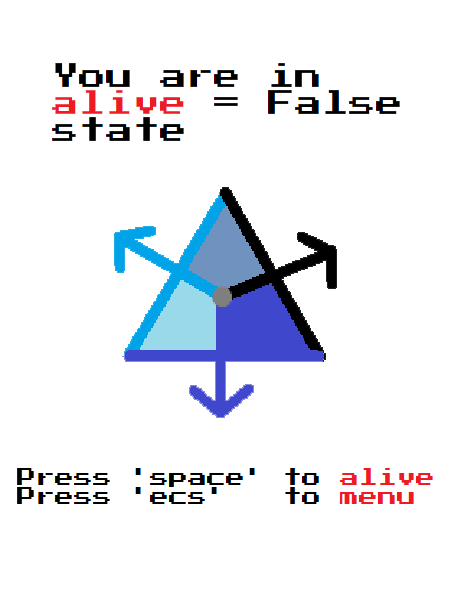
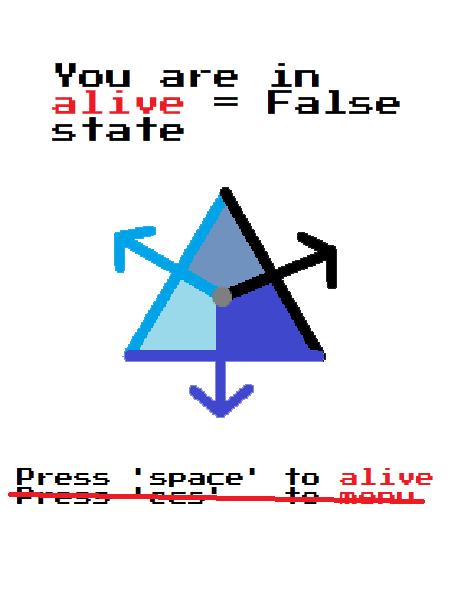
first playable(?) build

Changed region(s): [[0.0, 0.81, 0.9333, 0.84]]

diff --git a/meteor.py b/meteor.py
@@ -3,6 +3,43 @@ import random
 from sys import exit
 
 ###### functions and good stuffs ######
+def meteor1_movment(meteor_rect_list):
+    if meteor_rect_list:
+        for meteor_rect in meteor_rect_list:
+            meteor_rect.y += 2.3
+            screen.blit(meteor1,meteor_rect)
+        meteor_rect_list = [meteor for meteor in  meteor_rect_list if meteor.y < 700]
+        return meteor_rect_list
+    else:
+        return []
+
+def meteor2_movment(meteor_rect_list):
+    if meteor_rect_list:
+        for meteor_rect in meteor_rect_list:
+            meteor_rect.y += 4
+            screen.blit(meteor2,meteor_rect)
+        meteor_rect_list = [meteor for meteor in  meteor_rect_list if meteor.y < 700]
+        return meteor_rect_list
+    else:
+        return []
+
+def meteor3_movment(meteor_rect_list):
+    if meteor_rect_list:
+        for meteor_rect in meteor_rect_list:
+            meteor_rect.y += 4.777
+            screen.blit(meteor3,meteor_rect)
+        meteor_rect_list = [meteor for meteor in  meteor_rect_list if meteor.y < 700]
+        return meteor_rect_list
+    else:
+        return []
+
+def collision(player,meteor):
+    if meteor:
+        for meteor_rect in meteor:
+            if player.colliderect(meteor_rect):
+                return True
+    return False
+
 def mili2format(time): #00:00:000
     mili = time
     sec = mili // 1000
@@ -30,85 +67,94 @@ clock = pygame.time.Clock()
 gamefont = pygame.font.Font('asset/PressStart2P.ttf', 13)
 
 # initial state
-main_menu = True
 alive = False
 start_time = 0
 final_time = mili2format(0)
 
 # stuff to draw
-main_menu_surf = pygame.image.load('asset/main_menu.png').convert()
+gameover = pygame.image.load('asset/gameover.png').convert_alpha()
 ground_surface = pygame.image.load('asset/ground.png').convert() # 450*100
 sky_surface = pygame.image.load('asset/sky.png').convert() # 450*600 
 exo_surface = pygame.image.load('asset/fallen_sky.png').convert() # 450*125
-character = pygame.image.load('asset/character_hitbox.png').convert_alpha() # 65*100
-character_expired = pygame.image.load('asset/character_expired.png').convert_alpha()
-meteor = pygame.image.load('asset/meteor.png').convert()
-gameover = pygame.image.load('asset/gameover.png').convert_alpha()
 
-# rect(temporary dont know about sprite class yet)
-character_rect = character.get_rect(topleft = (200, 400))
-meteor_rect = meteor.get_rect(center = (400, 475))
+# event
+meteor_time_1 = pygame.USEREVENT + 1
+pygame.time.set_timer(meteor_time_1, random.randint(1500, 3000))
+meteor_time_2 = pygame.USEREVENT + 2
+pygame.time.set_timer(meteor_time_2, random.randint(450, 500))
+meteor_time_3 = pygame.USEREVENT + 3
+pygame.time.set_timer(meteor_time_3, random.randint(550, 700))
 
-# game state
-meteor_time = pygame.USEREVENT + 1
-pygame.time.set_timer(meteor_time, random.randint(900, 1100))
+# meteor
+meteor1 = pygame.image.load('asset/meteor_var_1.png').convert()
+meteor1_rect = meteor1.get_rect(center = (random.randint(-50, 550), -100))
+meteor1_rect_list = []
+meteor2 = pygame.image.load('asset/meteor_var_2.png').convert()
+meteor2_rect = meteor2.get_rect(center = (random.randint(-50, 550), -100))
+meteor2_rect_list = []
+meteor3 = pygame.image.load('asset/meteor_var_3.png').convert()
+meteor3_rect = meteor3.get_rect(center = (random.randint(-50, 550), -100))
+meteor3_rect_list = []
+
+# charecter
+character_surf = pygame.image.load('asset/character_1_hitbox.png').convert_alpha() # 65*100
+character_rect = character_surf.get_rect(topleft = (210, 400))
+
 
 while True:
+    ########## Event ##########
     key = pygame.key.get_pressed()
     for event in pygame.event.get():
         if event.type == pygame.QUIT:
             pygame.quit()
             exit()
-    
-    ########## Main Menu ##########
-    if main_menu == True:
-        screen.blit(main_menu_surf, (0,0))
-        if key[pygame.K_SPACE]:
-            main_menu = False
-            alive = True
-    ###############################
+        if event.type == meteor_time_1:
+            meteor1_rect_list.append(meteor1.get_rect(center = (random.randint(0, 550), 0)))
+        if event.type == meteor_time_2:
+            meteor2_rect_list.append(meteor2.get_rect(center = (random.randint(0, 550), 0)))
+        if event.type == meteor_time_3:
+            meteor3_rect_list.append(meteor3.get_rect(center = (random.randint(0, 550), 0)))
+    ###########################
 
     ########## Input ##########
-    if key[pygame.K_d] and alive: # Go Right
-        if character_rect.x >= 385:
-            character_rect.x += 0
-        elif character_rect.x < 385:
-            character_rect.x += 4
-    if key[pygame.K_a] and alive: # Go Left
-        if character_rect.x <= 0:
-            character_rect.x -= 0
-        if character_rect.x > 0:
-            character_rect.x -= 4
+    if key[pygame.K_d] and character_rect.x < 385: # Go Right
+        character_rect.x += 4
+    if key[pygame.K_a] and character_rect.x > 0: # Go Left
+        character_rect.x -= 4
     if key[pygame.K_SPACE] and alive == False:
         character_rect.x = 200
         alive = True
         start_time = pygame.time.get_ticks()
-    if key[pygame.K_ESCAPE]:
-            main_menu = True
     ###########################
     
     ########## The Game Itself ##########
-    if alive and main_menu == False:
+    if alive:
         ### enviroment
         final_time = mili2format(display_score())
         screen.blit(sky_surface, (0,0))
-        screen.blit(exo_surface, (0,0))
-        screen.blit(ground_surface, (0, 500))
         screen.blit(gamefont.render('Press \'esc\' to quit', False, 'black'), (10, 10))
-        display_score()
-        ### stuff that changeddd
-        screen.blit(meteor, meteor_rect)
+        ### stuff that change
+        meteor1_rect_list = meteor1_movment(meteor1_rect_list)
+        meteor2_rect_list = meteor2_movment(meteor2_rect_list)
+        meteor3_rect_list = meteor3_movment(meteor3_rect_list)
         if alive:
-            screen.blit(character, character_rect)
-        else:
-            screen.blit(character_expired, character_rect)
-        ### game condition
-        if character_rect.colliderect(meteor_rect):
+            screen.blit(character_surf, character_rect)
+        ### die condition
+        if collision(character_rect,meteor1_rect_list):
             alive = False
-    elif alive == False and main_menu == False:
+        if collision(character_rect,meteor2_rect_list):
+            alive = False
+        if collision(character_rect,meteor3_rect_list):
+            alive = False
+        screen.blit(exo_surface, (0,0))
+        screen.blit(ground_surface,(0,500))
+        display_score()
+    elif alive == False:
+        meteor1_rect_list.clear()
+        meteor2_rect_list.clear()
+        meteor3_rect_list.clear()
         final = gamefont.render('Your time : %s' %final_time, False, 'white')
         final_rect = final.get_rect(center = (220, 300))
-        screen.blit(character_expired, character_rect)
         screen.blit(gameover, (0,0))
         pygame.draw.rect(screen,'black',(75,275,300,50))
         screen.blit(final, final_rect)
